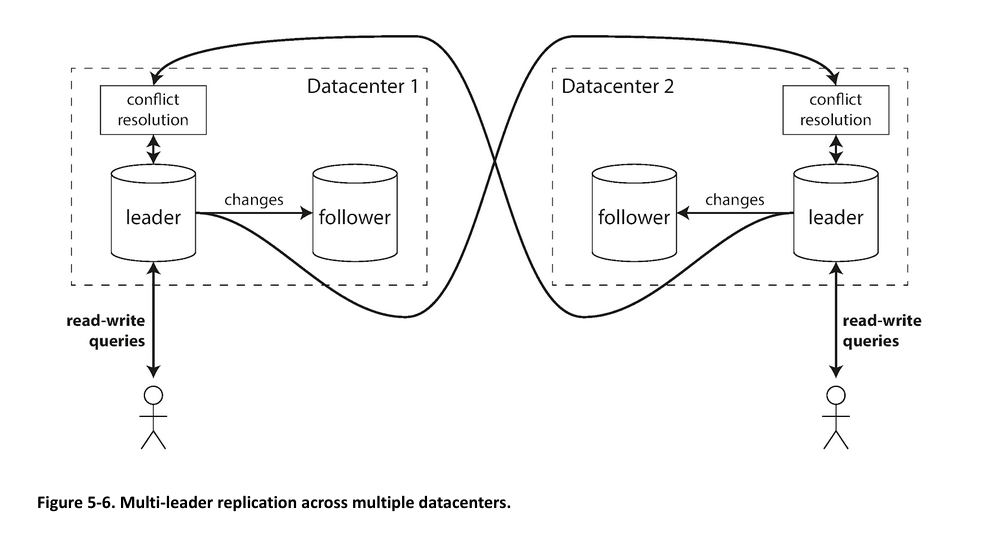
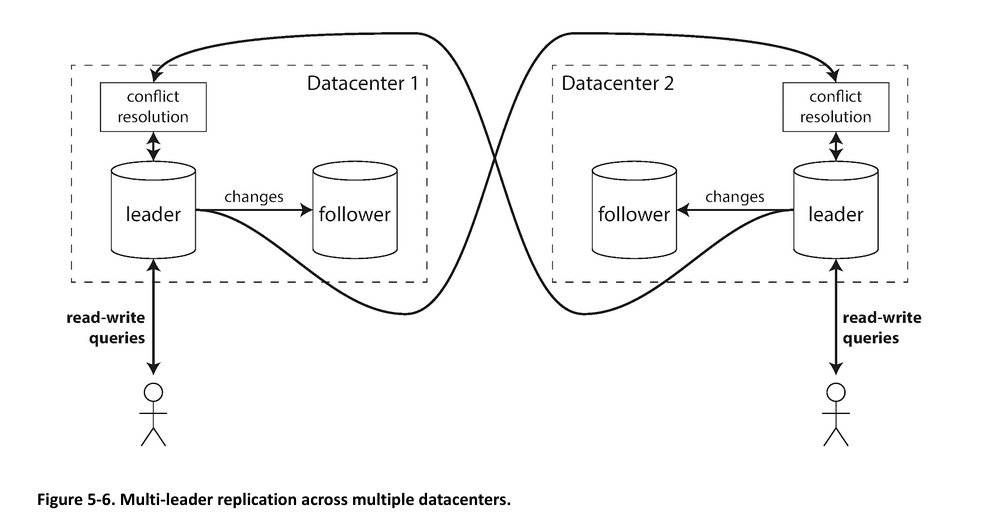
update 3

diff --git a/ddia.md b/ddia.md
@@ -931,7 +931,8 @@ Many trade-offs to consider in Replication
 
 ### Leaders and Followers (Single-leader Replication)
 
-ToDo Figure 5-1
+<img src="/resources/images/ddia/Fig-5-1.png" title="Figure 5-1" style="height: 400px; width:800px;"/>
+Figure 5-1. Leader-based (master–slave) replication.
 
 - Leader sends data change to all of it's followers as part of replication log or change stream
 - Followers applies all write in the same order
@@ -949,7 +950,9 @@ ToDo Figure 5-1
 
 #### Sync Vs Async Replication
 
-ToDo Figure 5-2
+<img src="/resources/images/ddia/Fig-5-2.png" title="Figure 5-2" style="height: 400px; width:800px;"/>
+Figure 5-2. Leader-based replication with one synchronous and one asynchronous follower.
+
 - replication to follower 1 is synchronous 
 - replication to follower 2 is asynchronous
 - Often configurable option in DBs
@@ -1108,7 +1111,11 @@ small % of writes (a common pattern on the web)
 - This section highlights issues w/ replication lag and some sol to solve them
 
 ##### Reading Your Own Writes
-ToDo Fig 5-3
+
+<img src="/resources/images/ddia/Fig-5-3.png" title="Figure 5-3" style="height: 400px; width:800px;"/>
+Figure 5-3. A user makes a write, followed by a read from a stale replica. To prevent this anomaly, we need
+read-after-write consistency.
+
 - User can not see it's own write made just a movement before
 - So we need read-after-write consistency Or read-your-write consistency guarantee
 - This is a guarantee that if the user reloads the page, 
@@ -1130,7 +1137,10 @@ they will always see any updates they submitted themselves.
 
 
 ##### Monotonic Reads
-ToDo Figure 5-4
+<img src="/resources/images/ddia/Fig-5-4.png" title="Figure 5-4" style="height: 400px; width:800px;"/>
+Figure 5-4. A user first reads from a fresh replica, then from a stale replica. Time appears to go backward. To prevent this
+anomaly, we need monotonic reads.
+
 - means users see things moving backward in time.
 - Above, user 2345 sees user 1234's comment, but does not see it again second time
 - Sols
@@ -1138,7 +1148,11 @@ ToDo Figure 5-4
     - replica can be selected using hash of used id rather randomly
 
 ##### Consistent Prefix Reads
-ToDo Fig 5-5
+<img src="/resources/images/ddia/Fig-5-5.png" title="Figure 5-5" style="height: 400px; width:800px;"/>
+Figure 5-5. If some partitions are replicated slower than others, an observer may see the answer before they see the
+question.
+
+
 - Concerns violation of causality (the relationship between cause and effect)
 - There is a causal dependency between those two sentences: Mrs. Cake heard Mr. Poons’s question
 and answered it.
@@ -1170,7 +1184,9 @@ and availability for distributed DBs
 - each leader simultaneously acts as a follower to the other leaders.
 
 #### Use Cases for Multi-Leader Replication
-ToDo Fig 5-6
+<img src="/resources/images/ddia/Fig-5-6.png" title="Figure 5-6" style="height: 400px; width:800px;"/>
+Figure 5-6. Multi-leader replication across multiple datacenters.
+
 - Multi-datacenter operation
     - In leader-based replication, all writes must go through DC hosting leader
     - In multi DC, each DC hosts one leader
@@ -1206,7 +1222,8 @@ ToDo Fig 5-6
 document or spreadsheet. (“Automatic Conflict Resolution” algo briefly discussed this)
 
 #### Handling Write Conflicts
-ToDo Fig 5-7
+<img src="/resources/images/ddia/Fig-5-7.png" title="Figure 5-7" style="height: 400px; width:800px;"/>
+Figure 5-7. A write conflict caused by two leaders concurrently updating the same record.
 
 - Above problem does not occur in a single-leader database.
 
@@ -1259,7 +1276,9 @@ a replicated system.
 - A replication topology describes path => how writes are propagated from one node to another
 - If there are only two leaders (Figure 5-7), one one possible topology exists
 - If more than two leaders, diff topologies exists
-ToDo Fig 5-8
+
+<img src="/resources/images/ddia/Fig-5-8.png" title="Figure 5-8" style="height: 400px; width:800px;"/>
+Figure 5-8. Three example topologies in which multi-leader replication can be set up
 
 - The most general topology is all-to-all
     - every leader sends writes to every other leader
@@ -1275,7 +1294,10 @@ ToDo Fig 5-8
     - In all-to-all, there are multiple paths of replication, so it can tolerate few nodes/links failures
 
 - But all-to-all topologies can have issues too
-ToDo Fig 5-9
+
+<img src="/resources/images/ddia/Fig-5-9.png" title="Figure 5-9" style="height: 400px; width:800px;"/>
+Figure 5-9. With multi-leader replication, writes may arrive in the wrong order at some replicas
+
 
 - Above is problem of causality similar to what we see in “Consistent Prefix Reads”
 - Simply attaching a timestamp to every write is not sufficient, because 
@@ -1312,7 +1334,9 @@ believe it to have.
     - quorum write and quorum read is used
     - conflicts resolved n reading with versioning support
 
-ToDo Fig 5-10
+<img src="/resources/images/ddia/Fig-5-10.png" title="Figure 5-10" style="height: 400px; width:800px;"/>
+Figure 5-10. A quorum write, quorum read, and read repair after a node outage
+
 
 ##### Read repair and anti-entropy
 - entropy => measures of randomness or disorder of a system
@@ -1347,7 +1371,9 @@ ToDo Fig 5-10
         - but one node fail will cause all writes t fail
 
 - With w + r > n tolerates unavailable nodes as follows
-ToDo Fig 5-11
+
+<img src="/resources/images/ddia/Fig-5-11.png" title="Figure 5-11" style="height: 400px; width:800px;"/>
+Figure 5-11. If w + r > n, at least one of the r replicas you read from must have seen the most recent successful write.
 
 ##### Limitations of Quorum Consistency
 - w + r > n => tolerates up to n/2 node failures
@@ -1423,7 +1449,9 @@ within its local datacenter
     - means invitation to conflics
 - In Dynamo-style databases conflicts can also arise during read repair or hinted handoff.
 
-ToDo Fig 5-12
+<img src="/resources/images/ddia/Fig-5-12.png" title="Figure 5-12" style="height: 400px; width:800px;"/>
+Figure 5-12. Concurrent writes in a Dynamo-style datastore: there is no well-defined ordering.
+
 
 - Above, two clients, A and B, simultaneously writing to a key X in a three-node datastore
 - If each node simply overwrote the value for a key whenever it received a 
@@ -1440,9 +1468,11 @@ toward the same value. How ?
     - Virsion Vectors
         - Ensures data is not lost
 
-ToDo Fig 5-13
+<img src="/resources/images/ddia/Fig-5-13.png" title="Figure 5-13" style="height: 400px; width:800px;"/>
+Figure 5-13. Capturing causal dependencies between two clients concurrently editing a shopping cart.
 
-ToDo Fig 5-14
+<img src="/resources/images/ddia/Fig-5-14.png" title="Figure 5-14" style="height: 400px; width:800px;"/>
+Figure 5-14. Graph of causal dependencies in Figure 5-13
 
 ## Glossary
 - Fanout => In transaction processing systems,number of request to other services that need to make in order to satisfy one incoming request.
